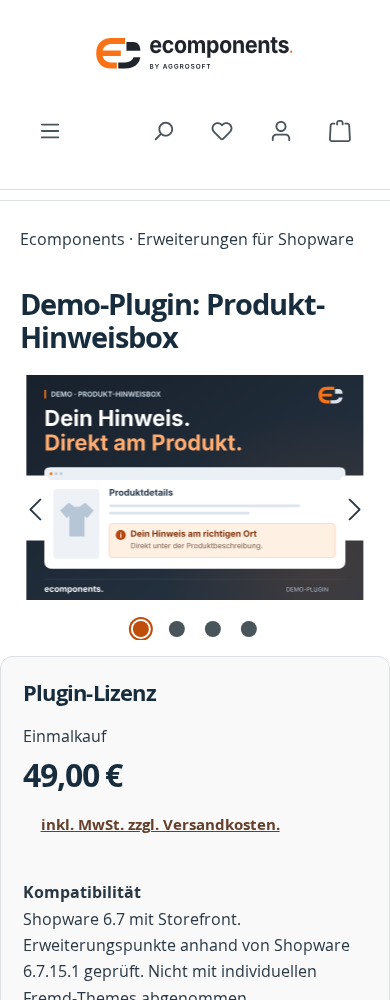
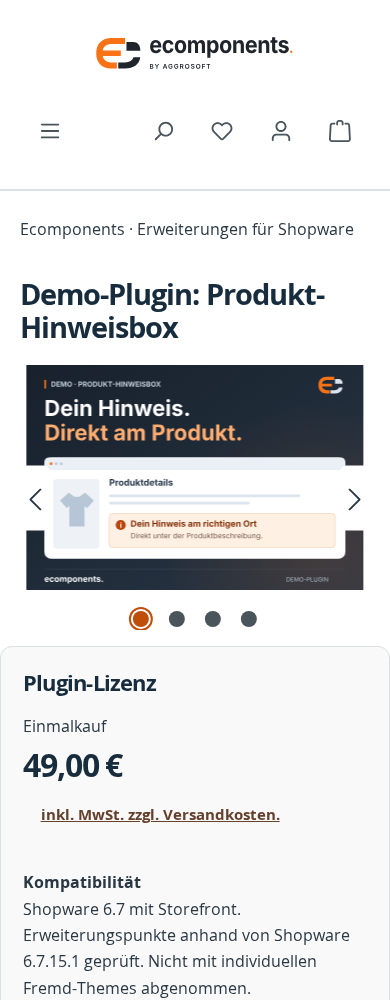
Release 1.1.0 with richer styling and native dynamic CMS presentation

Changed region(s): [[0.0615, 0.279, 0.9538, 0.837], [0.0615, 0.868, 0.8923, 1.0], [0.0308, 0.217, 0.9231, 0.248]]

diff --git a/src/Resources/app/storefront/src/scss/_content.scss b/src/Resources/app/storefront/src/scss/_content.scss
@@ -1,7 +1,7 @@
 // Optional classes for native Shopping Experiences; no CMS data is created by the theme.
 .cms-element-text { overflow-wrap: anywhere; }
 .cms-element-text p, .cms-element-text li { line-height: 1.85; }
-.cms-element-text a { color: var(--ec-starter-link); }
+.cms-element-text a:not(.btn) { color: var(--ec-starter-link); }
 .cms-element-text h2, .cms-element-text h3 { margin-top: 24px; margin-bottom: 18px; }
 .cms-element-text > h1:first-child, .cms-element-text > h2:first-child { margin-top: 0; }
 .ec-starter-hero { padding: clamp(28px, 5vw, 64px); border: 1px solid $sw-border-color; border-radius: var(--ec-starter-radius); background: var(--ec-starter-surface); }
@@ -18,4 +18,87 @@
 @media (max-width: 767.98px) {
     .ec-starter-card { padding: 22px; }
     .ec-starter-benefits ul { grid-template-columns: minmax(0, 1fr); }
+}
+
+// Opt-in presentation for native CMS blocks. All copy, media and links are CMS data.
+.ec-starter-home {
+    .cms-section { margin-bottom: clamp(36px, 5vw, 72px); }
+    .cms-block-container { padding: 0; }
+    .cms-block-container-row { row-gap: 24px; }
+    .cms-element-text > :last-child { margin-bottom: 0; }
+}
+.ec-starter-eyebrow {
+    display: inline-flex; align-items: center; gap: 10px; margin-bottom: 20px;
+    color: var(--ec-starter-link); font-size: .75rem; font-weight: 700;
+    line-height: 1.6; letter-spacing: .14em; text-transform: uppercase;
+    &::before { content: ''; width: 24px; height: 2px; background: currentColor; flex-shrink: 0; }
+}
+.ec-starter-home-hero {
+    overflow: hidden; border-radius: calc(var(--ec-starter-radius) * 2);
+    background: $sw-color-brand-secondary; color: color-contrast($sw-color-brand-secondary);
+    .cms-block-container-row { align-items: stretch; row-gap: 0; margin: 0; }
+    .cms-block-container-row > div { padding: 0; }
+    .cms-element-text { padding: clamp(28px, 4vw, 64px); }
+    .cms-element-text h1 { color: inherit; font-size: clamp(2.25rem, 4.4vw, 4.25rem); line-height: 1.07; letter-spacing: -.055em; max-width: 13ch; margin: 0 0 26px; }
+    .cms-element-text p { max-width: 48ch; line-height: 1.8; }
+    .ec-starter-eyebrow { color: inherit; opacity: .85; }
+    .cms-element-text .btn-primary { margin-top: 12px; }
+    .cms-element-image, .cms-image-container { height: 100%; }
+    .cms-image { width: 100%; height: 100%; min-height: 440px; object-fit: cover; }
+}
+.ec-starter-section-heading {
+    margin-bottom: 28px;
+    h2 { max-width: 23ch; font-size: clamp(1.8rem, 3vw, 2.75rem); margin-top: 0; }
+    p { max-width: 64ch; color: var(--ec-starter-muted); }
+    .ec-starter-eyebrow { margin-bottom: 12px; }
+}
+.ec-starter-teasers {
+    .image-text-gallery-card { height: 100%; overflow: hidden; border: 1px solid $sw-border-color; border-radius: calc(var(--ec-starter-radius) * 1.5); background: $sw-background-color; transition: box-shadow .2s ease; }
+    .image-text-gallery-card:hover { box-shadow: var(--ec-starter-shadow); }
+    .cms-element-image { background: var(--ec-starter-accent-soft); }
+    .cms-image-container { display: block; aspect-ratio: 8 / 5; }
+    .cms-image { width: 100%; height: 100%; object-fit: cover; }
+    .cms-element-text { padding: 28px; }
+    h3 { font-size: 1.375rem; margin-top: 0; }
+    p { color: var(--ec-starter-muted); font-size: .9375rem; }
+    a { display: inline-block; padding-block: 8px; font-weight: 700; }
+}
+.ec-starter-benefit-grid {
+    padding: clamp(24px, 3vw, 40px); border: 1px solid $sw-border-color;
+    border-radius: calc(var(--ec-starter-radius) * 1.5); background: var(--ec-starter-surface);
+    .cms-element-text { height: 100%; padding-inline-start: 20px; border-inline-start: 2px solid $sw-color-brand-primary; }
+    h3 { margin-top: 0; font-size: 1.125rem; }
+    p { font-size: .875rem; color: var(--ec-starter-muted); }
+}
+.ec-starter-split {
+    .cms-block-container-row { align-items: center; row-gap: 32px; }
+    .cms-element-image { overflow: hidden; border-radius: calc(var(--ec-starter-radius) * 1.5); }
+    .cms-image-container { width: 100%; aspect-ratio: 6 / 5; }
+    .cms-image { width: 100%; aspect-ratio: 6 / 5; object-fit: cover; }
+    .cms-element-text { padding: clamp(8px, 3vw, 40px); }
+    h2 { font-size: clamp(1.8rem, 3vw, 2.75rem); margin-top: 0; }
+    p { color: var(--ec-starter-muted); }
+}
+.ec-starter-products {
+    .product-slider-container { padding-block: 8px 28px; }
+    .product-slider-controls-prev, .product-slider-controls-next { border-radius: 50%; box-shadow: var(--ec-starter-shadow); }
+}
+.ec-starter-cta {
+    padding: clamp(28px, 4vw, 56px); border-radius: calc(var(--ec-starter-radius) * 2);
+    background: var(--ec-starter-accent-soft); text-align: center;
+    .cms-element-text { max-width: 740px; margin-inline: auto; }
+    h2 { margin-top: 0; font-size: clamp(1.8rem, 3vw, 2.75rem); }
+    p { color: var(--ec-starter-muted); }
+    .btn { margin-top: 12px; }
+}
+@media (max-width: 767.98px) {
+    .ec-starter-home-hero .cms-element-image,
+    .ec-starter-home-hero .cms-image-container { height: 260px; }
+    .ec-starter-home-hero .cms-image { min-height: 0; max-height: 320px; aspect-ratio: 4 / 3; }
+    .ec-starter-home-hero .cms-element-text h1 { max-width: 16ch; }
+    .ec-starter-teasers .cms-element-text { padding: 24px; }
+    .ec-starter-home .cms-section { margin-bottom: 36px; }
+}
+@media (prefers-reduced-motion: reduce) {
+    .ec-starter-teasers .image-text-gallery-card { transition: none; }
 }

diff --git a/src/Resources/app/storefront/src/scss/_layout.scss b/src/Resources/app/storefront/src/scss/_layout.scss
@@ -22,22 +22,28 @@ a { text-underline-offset: .2em; }
 .form-control:focus, .form-select:focus { border-color: $sw-color-brand-primary; box-shadow: 0 0 0 3px rgba($sw-color-brand-primary, .15); }
 .form-label { font-size: .875rem; font-weight: 600; }
 .header-main { background: $sw-background-color; border-bottom: 1px solid $sw-border-color; }
-.header-row { padding-block: 22px; row-gap: 14px; }
+.header-row { padding-block: 26px; row-gap: 14px; }
 .header-logo-main-img { max-width: 240px; max-height: 64px; }
+.header-search { max-width: 560px; margin-inline: auto; }
+.header-search .input-group { border-radius: 28px; overflow: hidden; }
+.header-search .input-group:focus-within { outline: 3px solid $sw-text-color; outline-offset: 3px; }
 .header-search-input, .header-search-btn { min-height: 48px; background: var(--ec-starter-surface); border-color: $sw-border-color; }
+.header-search-input { padding-inline-start: 20px; border-start-start-radius: 28px; border-end-start-radius: 28px; }
+.header-search-btn { padding-inline: 18px; border-start-end-radius: 28px; border-end-end-radius: 28px; }
 .header-actions-btn { min-width: 44px; min-height: 44px; border-radius: calc(var(--ec-starter-radius) / 2); }
 .header-actions-btn:hover { background: var(--ec-starter-surface); }
 .nav-main { border-bottom: 1px solid $sw-border-color; background: $sw-background-color; }
-.main-navigation-menu { padding-block: 5px; }
-.main-navigation-link { color: $sw-text-color; padding: 12px 16px; font-size: .9375rem; font-weight: 600; border-radius: calc(var(--ec-starter-radius) / 2); }
-.main-navigation-link:hover, .main-navigation-link.active { color: var(--ec-starter-link); background: var(--ec-starter-surface); }
+.main-navigation-menu { padding-block: 0; gap: 6px; }
+.main-navigation-menu-list > .nav-item > .nav-item-link-container { display: flex; align-items: center; }
+.main-navigation-link { color: $sw-text-color; padding: 12px 18px; font-size: .9375rem; font-weight: 600; border-radius: 24px; }
+.main-navigation-link:hover, .main-navigation-link.active { color: var(--ec-starter-link); background: var(--ec-starter-accent-soft); }
 .breadcrumb { margin-bottom: 24px; font-size: .8125rem; }
 .breadcrumb-link { color: var(--ec-starter-muted); }
 .navigation-offcanvas-link { min-height: 44px; padding-block: 12px; }
 .offcanvas, .modal-content { color: $sw-text-color; }
 .offcanvas .btn-close, .modal .btn-close { min-width: 44px; min-height: 44px; }
-.footer-main { margin-top: 24px; background: var(--ec-starter-surface); border-top: 1px solid $sw-border-color; }
-.footer-columns { padding-block: 36px; row-gap: 20px; }
+.footer-main { margin-top: 48px; background: var(--ec-starter-surface); border-top: 3px solid $sw-color-brand-primary; }
+.footer-columns { padding-block: 48px; row-gap: 20px; }
 .footer-column-headline { color: $sw-headline-color; font-size: .9375rem; font-weight: 700; }
 .footer-main a { color: var(--ec-starter-link); }
 .footer-link { display: inline-block; min-height: 44px; padding-block: 10px; }
@@ -51,6 +57,9 @@ a { text-underline-offset: .2em; }
 
 @media (min-width: 768px) {
     .footer-columns > .footer-column { flex: 1 1 0; width: auto; min-width: 180px; }
+}
+@media (min-width: 992px) {
+    .main-navigation-menu { padding-block: 8px; }
 }
 @media (max-width: 767.98px) {
     .container-main { padding-block: 24px 40px; }

diff --git a/src/Resources/app/storefront/src/scss/_catalog.scss b/src/Resources/app/storefront/src/scss/_catalog.scss
@@ -1,9 +1,10 @@
 // Native listing, filters, sliders and gallery; no markup reordering or hidden content.
 .cms-section-sidebar > .row { margin-inline: 0; }
-.product-box { height: 100%; border: 1px solid $sw-border-color; border-radius: var(--ec-starter-radius); box-shadow: 0 3px 14px rgba($sw-text-color, .025); }
+.product-box { height: 100%; border: 1px solid $sw-border-color; border-radius: var(--ec-starter-radius); box-shadow: 0 4px 20px rgba($sw-text-color, .035); transition: box-shadow .2s ease, border-color .2s ease; }
+.product-box:hover { border-color: mix($sw-color-brand-primary, $sw-border-color, 35%); box-shadow: var(--ec-starter-shadow); }
 .product-box:focus-within { border-color: $sw-color-brand-primary; box-shadow: 0 0 0 2px rgba($sw-color-brand-primary, .12); }
 .product-box .card-body { display: flex; flex-direction: column; padding: 20px; }
-.product-box .product-image-wrapper { flex: 0 0 auto; height: 210px; margin-bottom: 18px; padding: 12px; border-radius: calc(var(--ec-starter-radius) / 1.5); background: var(--ec-starter-surface); }
+.product-box .product-image-wrapper { flex: 0 0 auto; height: 210px; margin-bottom: 18px; padding: 16px; border-radius: calc(var(--ec-starter-radius) / 1.5); background: linear-gradient(145deg, var(--ec-starter-accent-soft), var(--ec-starter-surface)); }
 .product-box .product-image { max-height: 190px; object-fit: contain; }
 .product-box .product-info { display: flex; flex: 1 1 auto; flex-direction: column; height: auto; }
 .product-box .product-name { color: $sw-headline-color; height: 3em; font-size: 1rem; font-weight: 700; line-height: 1.5; }
@@ -16,6 +17,10 @@
 .product-box .product-price { font-size: 1.375rem; font-weight: 700; letter-spacing: -.025em; }
 .product-box .product-action { margin-top: 16px; }
 .product-box .product-action .btn { width: 100%; }
+.product-box .product-action .btn-light {
+    color: color-contrast($sw-color-brand-secondary); background: $sw-color-brand-secondary; border-color: $sw-color-brand-secondary;
+    &:hover { color: color-contrast(darken($sw-color-brand-secondary, 6%)); background: darken($sw-color-brand-secondary, 6%); border-color: darken($sw-color-brand-secondary, 6%); }
+}
 .product-wishlist-action-circle { border: 1px solid $sw-border-color; box-shadow: 0 3px 10px rgba($sw-text-color, .06); }
 .cms-element-category-navigation { padding: 18px; border: 1px solid $sw-border-color; border-radius: var(--ec-starter-radius); background: var(--ec-starter-surface); }
 .category-navigation-link { padding-block: 12px; color: $sw-text-color; }

diff --git a/src/Resources/app/storefront/src/scss/base.scss b/src/Resources/app/storefront/src/scss/base.scss
@@ -5,6 +5,8 @@
     --ec-starter-surface: #{mix($sw-background-color, $sw-text-color, 97%)};
     --ec-starter-muted: #{mix($sw-text-color, $sw-background-color, 80%)};
     --ec-starter-link: #{mix($sw-color-brand-primary, $sw-text-color, 40%)};
+    --ec-starter-accent-soft: #{mix($sw-background-color, $sw-color-brand-primary, 94%)};
+    --ec-starter-shadow: 0 16px 48px #{rgba($sw-text-color, .07)};
     color: $sw-text-color;
     background: $sw-background-color;
     font-size: 1rem;

diff --git a/docs/CMS.md b/docs/CMS.md
@@ -1,0 +1,41 @@
+# CMS-Startseite und Logo
+
+Ecomponents Starter enthält die Gestaltung, keine fest eingebauten Shoptexte, Teaserbilder oder Logos. Alle Inhalte werden mit nativen Shopware-Funktionen gepflegt. Ein Theme-Update überschreibt keine Erlebniswelt.
+
+## Logo
+
+1. Ein eigenes Logo unter **Inhalte → Medien** hochladen und dessen Titel/Alternativtext pflegen.
+2. Unter **Inhalte → Themes → Ecomponents Starter → Theme bearbeiten → Medien** die Felder für Desktop-, Tablet- und Mobil-Logo auswählen (`sw-logo-desktop`, `sw-logo-tablet`, `sw-logo-mobile`).
+3. Im vorgesehenen Verkaufskanal speichern/kompilieren. Das Theme verwendet die native Logo-Ausgabe einschließlich Verlinkung zur Startseite und responsiver Bildauswahl.
+
+Das Plugin-Icon unter `src/Resources/config/` dient der Erweiterungsverwaltung. Es wird nicht als Shoplogo eingeblendet.
+
+## Frei befüllbare Startseite
+
+Unter **Inhalte → Erlebniswelten** ein Seitenlayout anlegen. Im Layout bei den CSS-Klassen `ec-starter-home` eintragen. Für jeden Bereich eine native Standardsektion mit zentriertem Inhalt verwenden. Die folgenden Klassen werden im jeweiligen Block unter **Einstellungen → CSS-Klassen** eingetragen. Blockabstände auf 0 setzen; die Klassen übernehmen das responsive Spacing.
+
+| Bereich | Nativer Block | CSS-Klasse | Pflege |
+| --- | --- | --- | --- |
+| Hero | Bild/Text, zwei Spalten | `ec-starter-home-hero` | Links Textelement mit genau einer Hauptüberschrift und optionalem Button; rechts Bildelement |
+| Vorteile | Text, drei Spalten | `ec-starter-benefit-grid` | Drei separat editierbare Überschriften und Texte |
+| Abschnittseinstieg | Text | `ec-starter-section-heading` | Überschrift und kurzer Einleitungstext |
+| Themen-Teaser | Bild/Text-Galerie, drei Spalten | `ec-starter-teasers` | Je Karte ein Bildelement sowie ein Textelement mit Überschrift, Text und Link |
+| Sortiment | Produkt-Slider | `ec-starter-products` | Dynamische Produktgruppe, Sortierung und Anzahl auswählen |
+| Editorial | Bild/Text, zwei Spalten | `ec-starter-split` | Links Bild; rechts Überschrift, Text und optionaler Button |
+| Abschluss | Text | `ec-starter-cta` | Überschrift, Text und Link/Button |
+
+Eine kleine Einleitungszeile kann im Textelement die Klasse `ec-starter-eyebrow` erhalten. Für Buttons die nativen Klassen `btn btn-primary` oder `btn btn-outline-secondary` verwenden. Die älteren Klassen `ec-starter-hero`, `ec-starter-card` und `ec-starter-benefits` bleiben verfügbar.
+
+Bei einem Bild/Text-Block bei Bedarf den Elementtyp des linken Slots auf **Text** und des rechten Slots auf **Bild** ändern; die Slots bleiben normale Shopware-CMS-Elemente. Beim Hero das Bild auf **Cover** stellen. Bild und Text bleiben mobil beide sichtbar.
+
+## Dynamische Produkte
+
+Unter **Kataloge → Dynamische Produktgruppen** eine Regel für den gewünschten Katalog beziehungsweise die gewünschte Kategorie anlegen. Im CMS-Produkt-Slider als Produktauswahl **Dynamische Produktgruppe** verwenden und diese Gruppe auswählen. Neue passende Produkte erscheinen automatisch; Shopware berücksichtigt zusätzlich Verkaufskanal-Sichtbarkeit und Verfügbarkeit. Keine Produktnummern oder Produkt-IDs im Theme hinterlegen.
+
+## Startseite zuordnen
+
+Im gewünschten **Verkaufskanal → Allgemein → Grundeinstellungen / Startseite** das neue Layout auswählen. Vorherige Zuordnung für eine Rücknahme dokumentieren. Anschließend Desktop und Mobilansicht sowie Links, Suche, Navigation und Produkt-Slider prüfen. Ein Layout kann vor der Zuweisung über die CMS-Vorschau geprüft werden.
+
+## Demo-Inhalte
+
+Die Screenshots zeigen separat gepflegte CMS-Demodaten mit Ecomponents-Logo, Medien und vorhandenen Produkten. Diese Daten sind kein Bestandteil des installierbaren Themes. Die Installation erzeugt keine Texte, Produkte, Medien oder Startseiten. Ein Zielshop kann vollständig eigene Inhalte und Marken verwenden.

diff --git a/README.md b/README.md
@@ -1,6 +1,6 @@
 # Ecomponents Starter
 
-Ein schlichtes, kostenloses Storefront-Theme für **Shopware 6.7**, entwickelt von Aggrosoft GmbH / Ecomponents. Version **1.0.1**, MIT-Lizenz.
+Ein schlichtes, kostenloses Storefront-Theme für **Shopware 6.7**, entwickelt von Aggrosoft GmbH / Ecomponents. Version **1.1.0**, MIT-Lizenz.
 
 ## Download
 
@@ -22,7 +22,11 @@ Die Quelle wird über den automatisch gepflegten Zweig `extension-mesh-registry`
 
 Die Bilder zeigen die **lokale Theme-Vorschau** mit vorhandenen Beispielinhalten. Die Beispielprodukte, Bilder und Erlebniswelten werden nicht mitinstalliert. Es handelt sich nicht um die Behauptung einer erfolgten Umstellung des externen Demoshops.
 
-[Produktübersicht](https://github.com/aggrosoft/ecomponents-demo-theme/blob/main/docs/screenshots/01-catalog-desktop.png) · [Produktdetail](https://github.com/aggrosoft/ecomponents-demo-theme/blob/main/docs/screenshots/02-product-desktop.png) · [Mobilansicht](https://github.com/aggrosoft/ecomponents-demo-theme/blob/main/docs/screenshots/03-product-mobile.png) · [Konto](https://github.com/aggrosoft/ecomponents-demo-theme/blob/main/docs/screenshots/04-account-desktop.png)
+[Startseite Desktop](docs/screenshots/05-home-desktop.png) · [Startseite Mobil](docs/screenshots/06-home-mobile.png) · [Produktübersicht](https://github.com/aggrosoft/ecomponents-demo-theme/blob/main/docs/screenshots/01-catalog-desktop.png) · [Produktdetail](https://github.com/aggrosoft/ecomponents-demo-theme/blob/main/docs/screenshots/02-product-desktop.png) · [Mobilansicht](https://github.com/aggrosoft/ecomponents-demo-theme/blob/main/docs/screenshots/03-product-mobile.png) · [Konto](https://github.com/aggrosoft/ecomponents-demo-theme/blob/main/docs/screenshots/04-account-desktop.png)
+
+## Dynamische CMS-Startseite und Logo
+
+Das Theme liefert ausschließlich die Gestaltung. Texte, Teaser, Bilder, Links und Produktgruppen werden in nativen Shopware-Erlebniswelten gepflegt; Logos werden über die normalen Medienfelder der Theme-Konfiguration gewählt. Es werden keine Startseiteninhalte oder Shopnamen beim Installieren angelegt. Eine Anleitung für eine frei befüllbare Startseite steht in [CMS und Logo](docs/CMS.md).
 
 ## Enthalten
 

diff --git a/CHANGELOG.md b/CHANGELOG.md
@@ -1,5 +1,13 @@
 # Changelog
 
+## 1.1.0 – 2026-11-17
+
+- Markanterer Header, Navigation, Produktkarten und Footer.
+- Native CMS-Gestaltung für Hero mit Bild, Themen-Teaser, Vorteile, dynamischen Produkt-Slider, Editorial und Abschluss-Teaser.
+- Inhalte und Logos bleiben vollständig über Erlebniswelten, Medien und Theme-Konfiguration pflegbar; keine Demo-Inhalte im Theme-Paket.
+- Zusätzliche Startseiten-Screenshots und Dokumentation für CMS-Aufbau und Logo-Konfiguration.
+- Korrigierte Linkfarben für CMS-Schaltflächen und sichtbares Hero-Bild auf Mobilgeräten.
+
 ## 1.0.1 – 2026-11-17
 
 - ExtensionMesh-Veröffentlichung mit geprüftem Shopware-CLI-Build und automatischer GitHub-Release-/Registry-Erzeugung.
